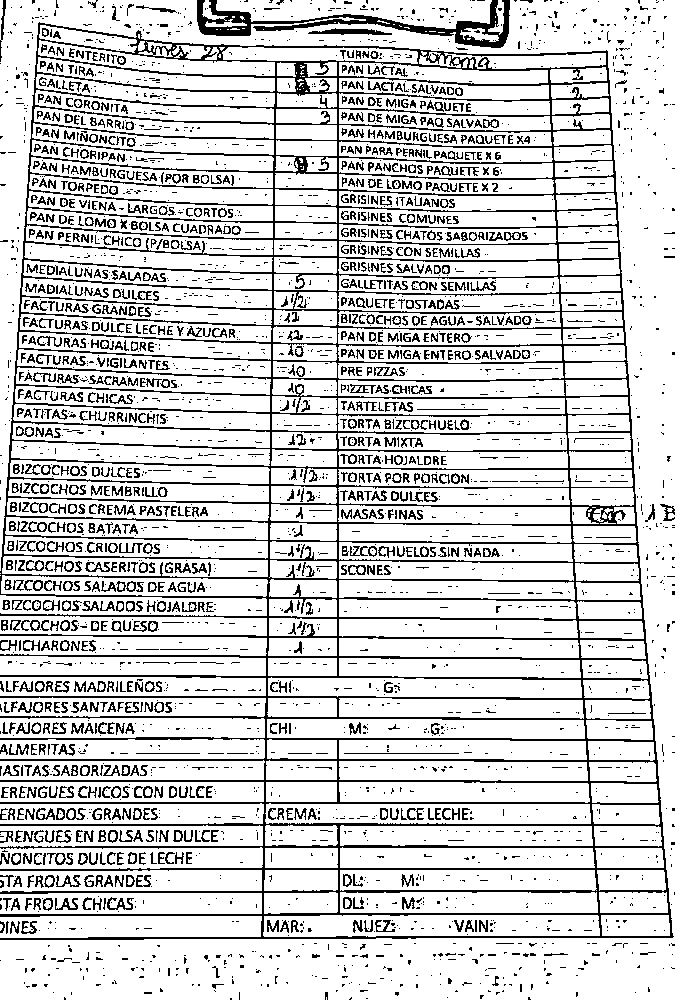
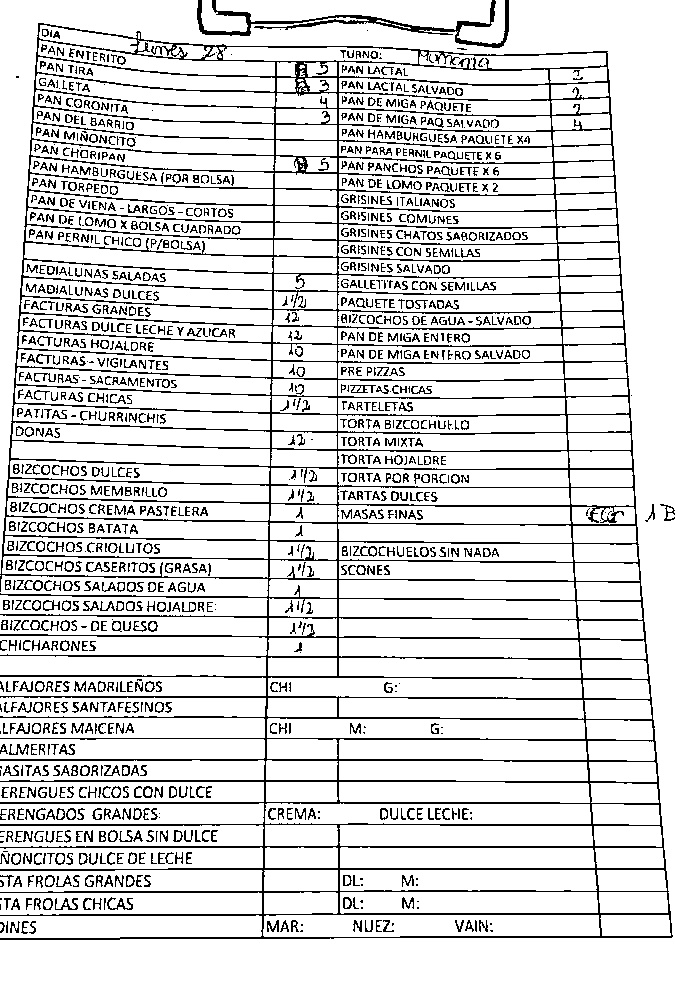
Add files via upload

diff --git a/ocr/pana/ocr.py b/ocr/pana/ocr.py
@@ -1,4 +1,8 @@
+# Requires spanish trained data https://github.com/tesseract-ocr/tessdata_best/blob/master/spa.traineddata
+
+
 image_path = 'test.jpg'
+tesseract_config = '--oem 3'
 
 
 import copy
@@ -6,42 +10,46 @@ import json
 import re
 import cv2
 import pytesseract
+import numpy as np
 from matplotlib import pyplot as plt
 from pytesseract import Output
 
 # Preprocessing
 
-img = cv2.imread(image_path,0)
-thresh = cv2.adaptiveThreshold(img,255,cv2.ADAPTIVE_THRESH_MEAN_C, cv2.THRESH_BINARY,11,2)
+## - Rotate the image
+# https://www.pyimagesearch.com/2017/02/20/text-skew-correction-opencv-python/
+img = cv2.imread(image_path)
+gray = cv2.cvtColor(img, cv2.COLOR_BGR2GRAY)
+gray = cv2.bitwise_not(gray)
+thresh = cv2.adaptiveThreshold(gray, 255, cv2.ADAPTIVE_THRESH_MEAN_C, cv2.THRESH_BINARY, 5, 5)
+coords = np.column_stack(np.where(thresh > 0))
+angle = cv2.minAreaRect(coords)[-1]
+angle = -(90 + angle) if angle < -45 else -angle
+h, w = img.shape[:2]
+center = (w // 2, h // 2)
+M = cv2.getRotationMatrix2D(center, angle, 1.0)
+rotated = cv2.warpAffine(img, M, (w, h), flags=cv2.INTER_CUBIC, borderMode=cv2.BORDER_REPLICATE)
+cv2.imwrite('rotated.png', rotated)
+
+
+img = cv2.imread('rotated.png', 0) if angle else cv2.imread(image_path, 0)
+thresh = cv2.adaptiveThreshold(img,255,cv2.ADAPTIVE_THRESH_MEAN_C, cv2.THRESH_BINARY, 11, 2)
 cv2.imwrite('pre_processed.jpg', thresh)
 
-
 """
-ret,thresh1 = cv2.threshold(img,120,255,cv2.THRESH_BINARY)
-ret,thresh2 = cv2.threshold(img,120,255,cv2.THRESH_BINARY_INV)
-ret,thresh3 = cv2.threshold(img,120,255,cv2.THRESH_TRUNC)
-ret,thresh4 = cv2.threshold(img,120,255,cv2.THRESH_TOZERO)
-ret,thresh5 = cv2.threshold(img,120,255,cv2.THRESH_TOZERO_INV)
-thresh6 = cv2.adaptiveThreshold(img,255,cv2.ADAPTIVE_THRESH_MEAN_C, cv2.THRESH_BINARY,11,2)
-thresh7 = cv2.adaptiveThreshold(img,255,cv2.ADAPTIVE_THRESH_GAUSSIAN_C, cv2.THRESH_BINARY,11,2)
-ret,thresh8 = cv2.threshold(img,195,255,cv2.THRESH_BINARY+cv2.THRESH_OTSU)
-blur = cv2.GaussianBlur(img,(5,5),0)
-ret, thresh9 = cv2.threshold(blur,195,255,cv2.THRESH_BINARY+cv2.THRESH_OTSU)
+# Compare thresholding methods
+thresh1 = cv2.adaptiveThreshold(img,255,cv2.ADAPTIVE_THRESH_MEAN_C, cv2.THRESH_BINARY,5,5)
+thresh2 = cv2.adaptiveThreshold(img,255,cv2.ADAPTIVE_THRESH_MEAN_C, cv2.THRESH_BINARY,11,2)
+thresh3 = cv2.adaptiveThreshold(blur,255,cv2.ADAPTIVE_THRESH_MEAN_C, cv2.THRESH_BINARY,11,11)
+thresh4 = cv2.adaptiveThreshold(img,255,cv2.ADAPTIVE_THRESH_MEAN_C, cv2.THRESH_BINARY,15, 15)
 data = [
-	('Original Image', img),
-	('BINARY',thresh1),
-	('BINARY_INV', thresh2),
-	('TRUNC', thresh3),
-	('TOZERO',thresh4),
-	('TOZERO_INV', thresh5),
-	('ADAPT_MEAN_BINARY', thresh6),
-	('ADAPT_GAUSS_BINARY', thresh7),
-	('BINARY+OTSU', thresh8),
-	('BLUR', blur),
-	('BINARY+OTSU w BLUR', thresh9),
+	('ADAPT BIN (5, 5)', thresh1),
+	('ADAPT BIN (11, 2)', thresh2),
+	('ADAPT BIN (11, 11)', thresh3),
+	('ADAPT BIN (15, 15)', thresh4),
 ]
 for i, info in enumerate(data):
-	plt.subplot(4,3,i+1),plt.imshow(info[1],'gray',vmin=0,vmax=255)
+	plt.subplot(2,2,i+1),plt.imshow(info[1],'gray',vmin=0,vmax=255)
 	plt.title(info[0])
 	plt.xticks([]),plt.yticks([])
 
@@ -51,7 +59,7 @@ plt.show()
 # Text Detection
 
 preprocessed_img = cv2.imread('pre_processed.jpg')
-d = pytesseract.image_to_data(preprocessed_img, output_type=Output.DICT)
+d = pytesseract.image_to_data(preprocessed_img, output_type=Output.DICT, config=tesseract_config)
 n_boxes = len(d['level'])
 for i in range(n_boxes):
 	x, y, w, h = d['left'][i], d['top'][i], d['width'][i], d['height'][i]
@@ -62,9 +70,72 @@ cv2.imwrite('text_detection.jpg', preprocessed_img)
 # Text Recognition
 
 text_detected_img = copy.deepcopy(thresh)
-extracted_text = pytesseract.image_to_string(text_detected_img)
-default = '\n'.join(line for line in extracted_text.rsplit('\n') if line.strip())
-print(default)
+
+## - Spanish lang
+extracted_text = pytesseract.image_to_string(text_detected_img, lang='spa', config=tesseract_config)
+formatted_text = '\n'.join(line for line in extracted_text.rsplit('\n') if line.strip())
+print(formatted_text)
+"""
+[EAN LACTAL SALVADO “
+PAN DE MICA PAQUETE
+2 [PAN DE MIGA TAO SALVADO:
+PAN HAMBURGUESA PAQUETE RA
+"IBAN CHOI
+[PAN PARA PERNIL PAQUETE X 6.
+[PAN PANCHOS PAQUETE X 6:
+AN HAMBURGUESA (FOR BOLSA]
+PAN DE LOMO PAQUETEX 2 —
+- [PAN TORPEDO
+[GRISINES ¡TALANOS
+DAN DE VIENA LARGOS CORTOS
+-—- |GRÍSINES COMUNES -
+E
+CAN DE LOMO KEOLSA CUADRADO —
+[GRISINES CHATOS SABORIZADOS -
+PAN PERNILCRICO (P/eDi5A) — [GRISINES CON SEMILLAS
+PO == ISRISINES SALVADO —_-—
+IMEDIALUNAS SALADAS. [GALLETITAS CON SEMILLAS
+MADIALUNAS DULCES PAQUETE TOSTADAS. — ——!
+FACTURAS GRANDES -
+BIZCOCHOS DE AGUA- SALVADO
+- [FACTURAS DULCE LECHE Y AZUCAR.
+PAÑDE MIGA ENTERO “> —
+FACTURAS HOJALDRE -
+PÁN DE MIGA ENTERO SALVADO -
+r [EACTURAS VIGILANTES ——— [PRE PIZZAS
+| [EACTURAS= SACRAMENTOS. PIZETAS EIC
+“ [FACTURAS CHICAS ———— TARTELETAS ———  -—
+PATITAS: CHURRINCAIS — ———- [ORTA BIZCOCHUELO:
+OONAS—- + [TORTA MIXTA ——
+E -— |TORTAHOJALDRE — ——
+BIZCOCHOS DULCES: —— 273: [TORTA POR PORCIÓN.
+[BIZCOCHOS MEMBRILLO E iTANTÁS DUES —
+[BIZCOCHOS CREMA PASTELERA A — [MASAS FINAS -
+BIZCOCHOS BATATA =— — - -
+BizcOcHOS CRIOLUTOS -
+EIZCOCHUELOS SIN NADA
+BIZCOCHOS CASERITOS (GRASA)
+SCONES” ——
+BIZCOCHOS SALADOS DE AGUÁ:
+BIZCOCHOSSALADOS HOJALORE:
+BIZCOCHOS= DE QUESO —
+CHICHARONES
+ILFAJORES MADRILEÑOS:
+LEAJORES SANTAFESINOS:-
+LEAJORES MAICENA :
+ALMERITAS:: ——
+ASITAS:SABORIZADAS -—
+ERENGUES CHICOS CON DULCE:
+ERENGADOS GRANDES:
+TA FROLAS GRANDES
+TA FROLAS CHICAS: +
+INES. — —
+"""
+
+## - Default lang
+extracted_text = pytesseract.image_to_string(text_detected_img, config=tesseract_config)
+formatted_text = '\n'.join(line for line in extracted_text.rsplit('\n') if line.strip())
+print(formatted_text)
 """
 PAN LACTAL SALVADO ~
 PAN DE IGA PAGUETE
@@ -121,3 +192,5 @@ TA FROLAS GRANDES
 TA FROLAS CHICAS:
 INES. * ~ _
 """
+
+## - Comparison: default lang trained data generates better results than the spanish one.
